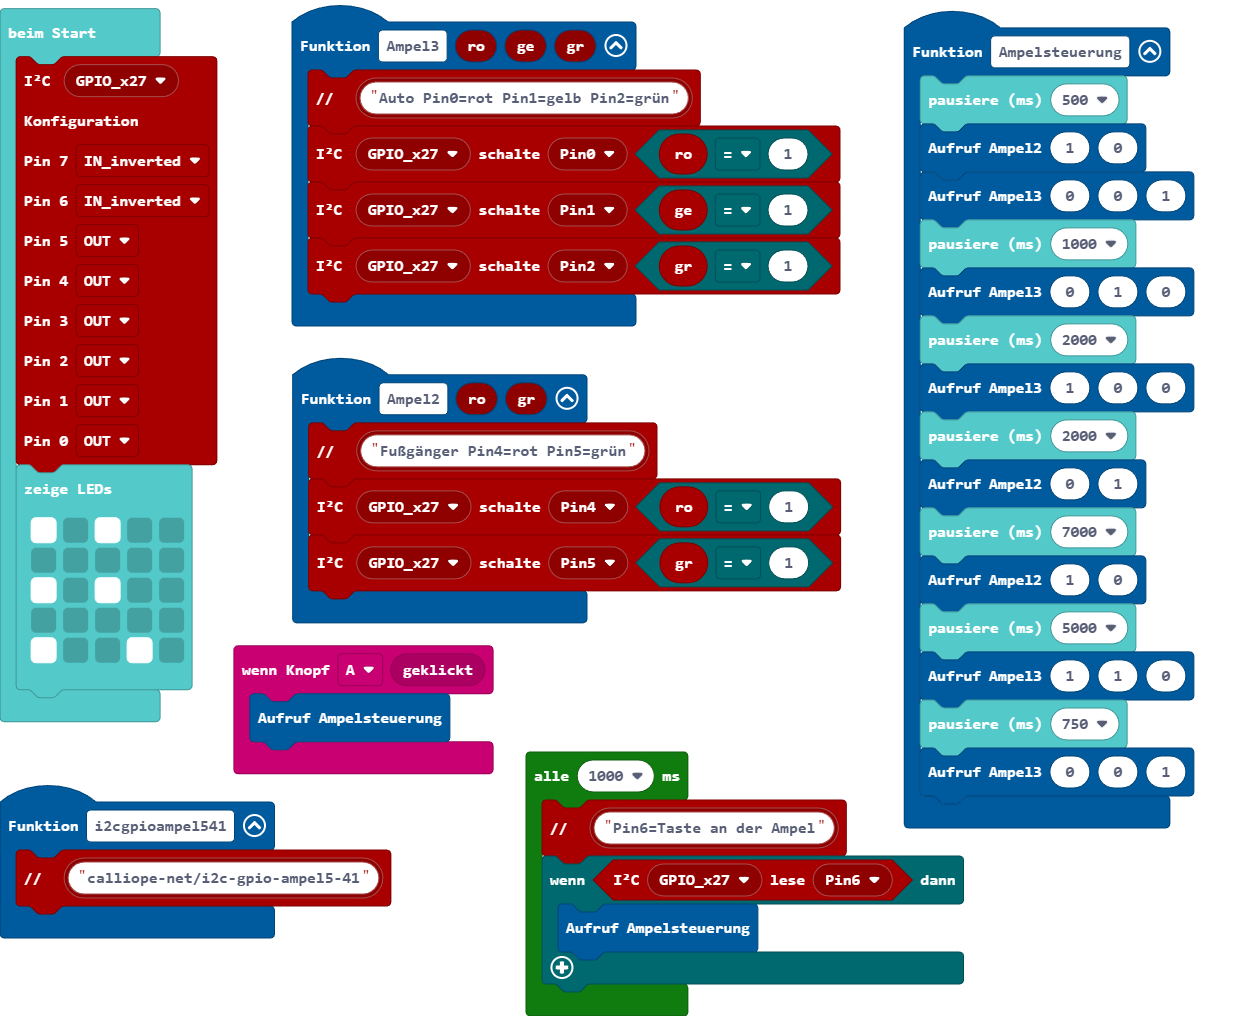
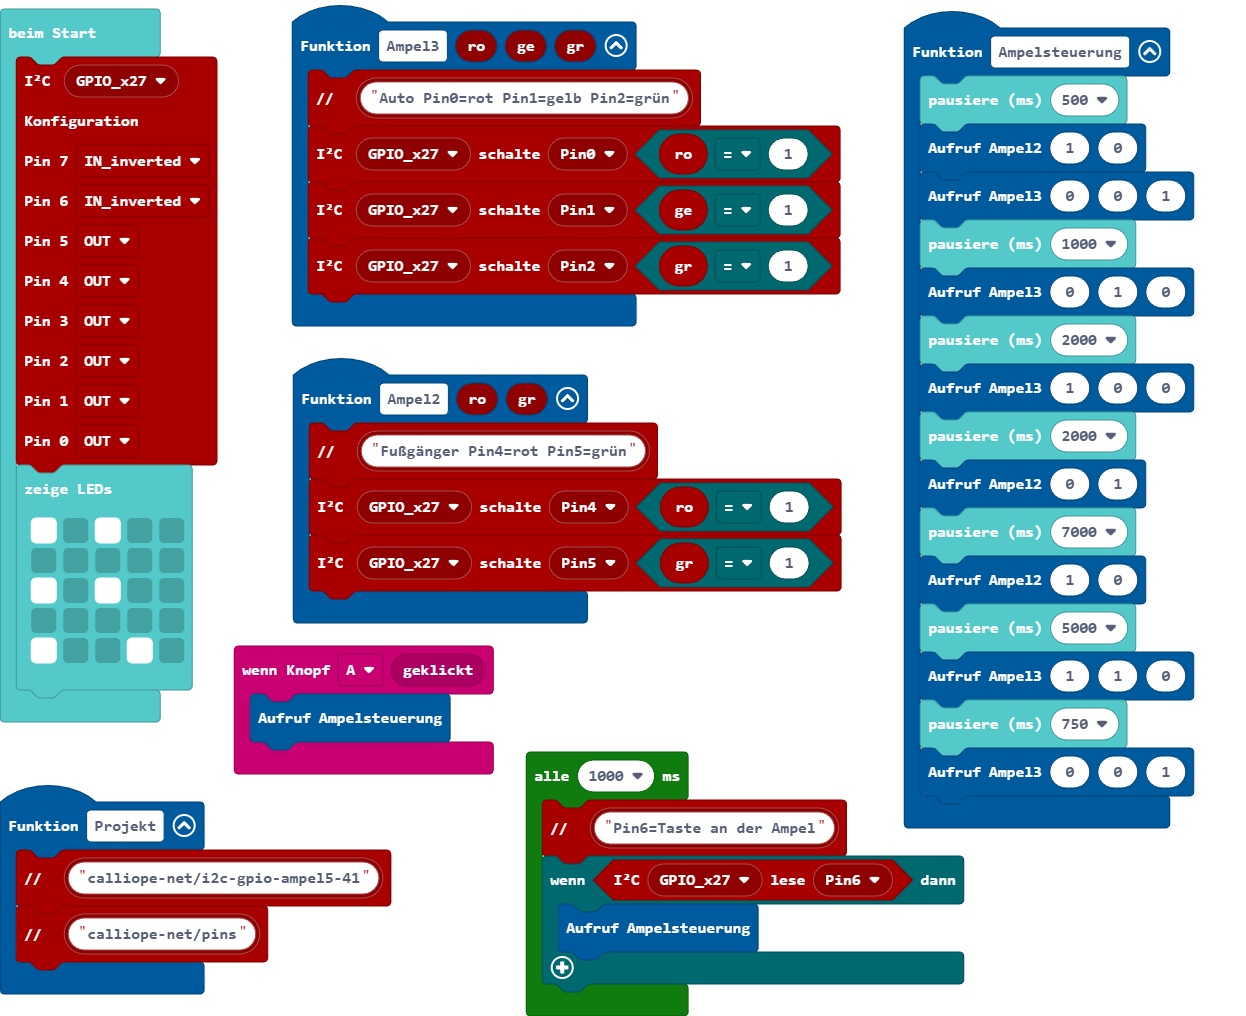
Aktualisiere pxt.json, main.blocks, main.ts

diff --git a/main.ts b/main.ts
@@ -18,14 +18,15 @@ function Ampelsteuerung () {
     basic.pause(750)
     Ampel3(0, 0, 1)
 }
+function Projekt () {
+    pins.comment(pins.pins_text("calliope-net/i2c-gpio-ampel5-41"))
+    pins.comment(pins.pins_text("calliope-net/pins"))
+}
 function Ampel3 (ro: number, ge: number, gr: number) {
     pins.comment(pins.pins_text("Auto Pin0=rot Pin1=gelb Pin2=grün"))
     pins.gpio_writeBit(pins.pins_gpio_I2C_ADDRESS(pins.gpio_eI2C_ADDRESS.GPIO_x27), pins.pins_gpio_pin(pins.gpio_epin.Pin0), ro == 1)
     pins.gpio_writeBit(pins.pins_gpio_I2C_ADDRESS(pins.gpio_eI2C_ADDRESS.GPIO_x27), pins.pins_gpio_pin(pins.gpio_epin.Pin1), ge == 1)
     pins.gpio_writeBit(pins.pins_gpio_I2C_ADDRESS(pins.gpio_eI2C_ADDRESS.GPIO_x27), pins.pins_gpio_pin(pins.gpio_epin.Pin2), gr == 1)
-}
-function i2cgpioampel541 () {
-    pins.comment(pins.pins_text("calliope-net/i2c-gpio-ampel5-41"))
 }
 function Ampel2 (ro: number, gr: number) {
     pins.comment(pins.pins_text("Fußgänger Pin4=rot Pin5=grün"))
